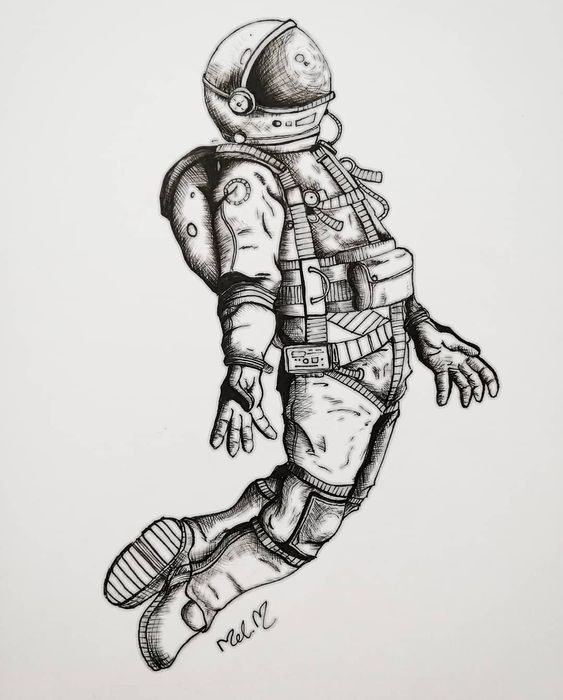
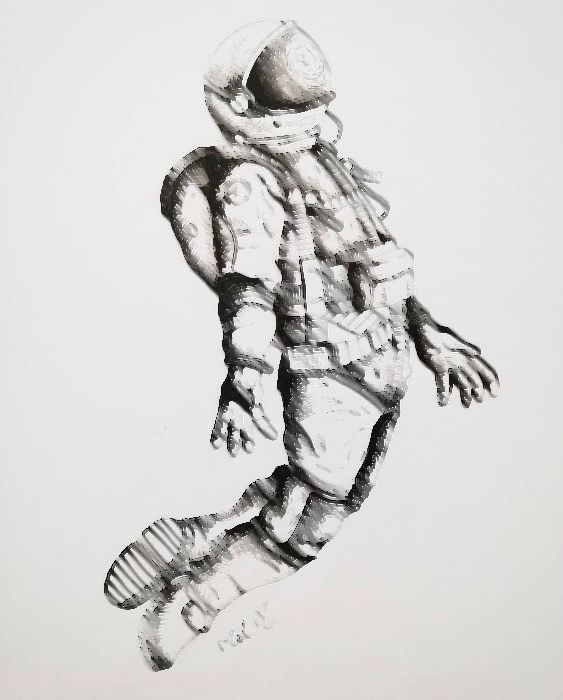
autocanny

Changed region(s): [[0.1812, 0.03, 0.9059, 0.96]]

diff --git a/AntiCopyBlur/EdgeBlur.py b/AntiCopyBlur/EdgeBlur.py
@@ -45,8 +45,10 @@ for x in range(term, cannyimg.shape[0]-term):
                             orig_img[x+tx-2][y+ty-2][i] *= kernel2d[tx][ty]
             '''
 
+'''
 cv2.imwrite("{p}/images/edgeblur_image/{ing}_edgeblur.png".format(p=path, ing=imgname), orig_img)
 print(imgname, psnr(cv2.imread("{p}/images/original_image/{ing}.png".format(p=path, ing=imgname)), cv2.imread("{p}/images/edgeblur_image/{ing}_edgeblur.png".format(p=path, ing=imgname))), ssim(cv2.imread("{p}/images/original_image/{ing}.png".format(p=path, ing=imgname)), cv2.imread("{p}/images/edgeblur_image/{ing}_edgeblur.png".format(p=path, ing=imgname)), multichannel=True))
+'''
 
 '''
 dx = [1, 0, -1, 0]

diff --git a/AntiCopyBlur/cannyEdge.py b/AntiCopyBlur/cannyEdge.py
@@ -1,13 +1,22 @@
 import cv2, os
+import numpy as np
 
 path = os.getcwd()
 
 def canny(imgname):
     img = cv2.imread("{p}/images/original_image/{ing}.png".format(p=path, ing=imgname), cv2.IMREAD_GRAYSCALE)
 
+    sigma = 0.33
+    v = np.median(img)
+    min_threshold = int(max(0, (1.0 - sigma) * v))
+    max_threshold = int(min(255, (1.0 + sigma) * v))
+
+
+    '''
     min_threshold = 255/3
     max_threshold = 255
-    
+    '''
+
     edge1 = cv2.Canny(img, min_threshold, max_threshold)
 
     cv2.imwrite("{p}/images/canny_image/{ing}_canny.png".format(p=path, ing=imgname), edge1)
